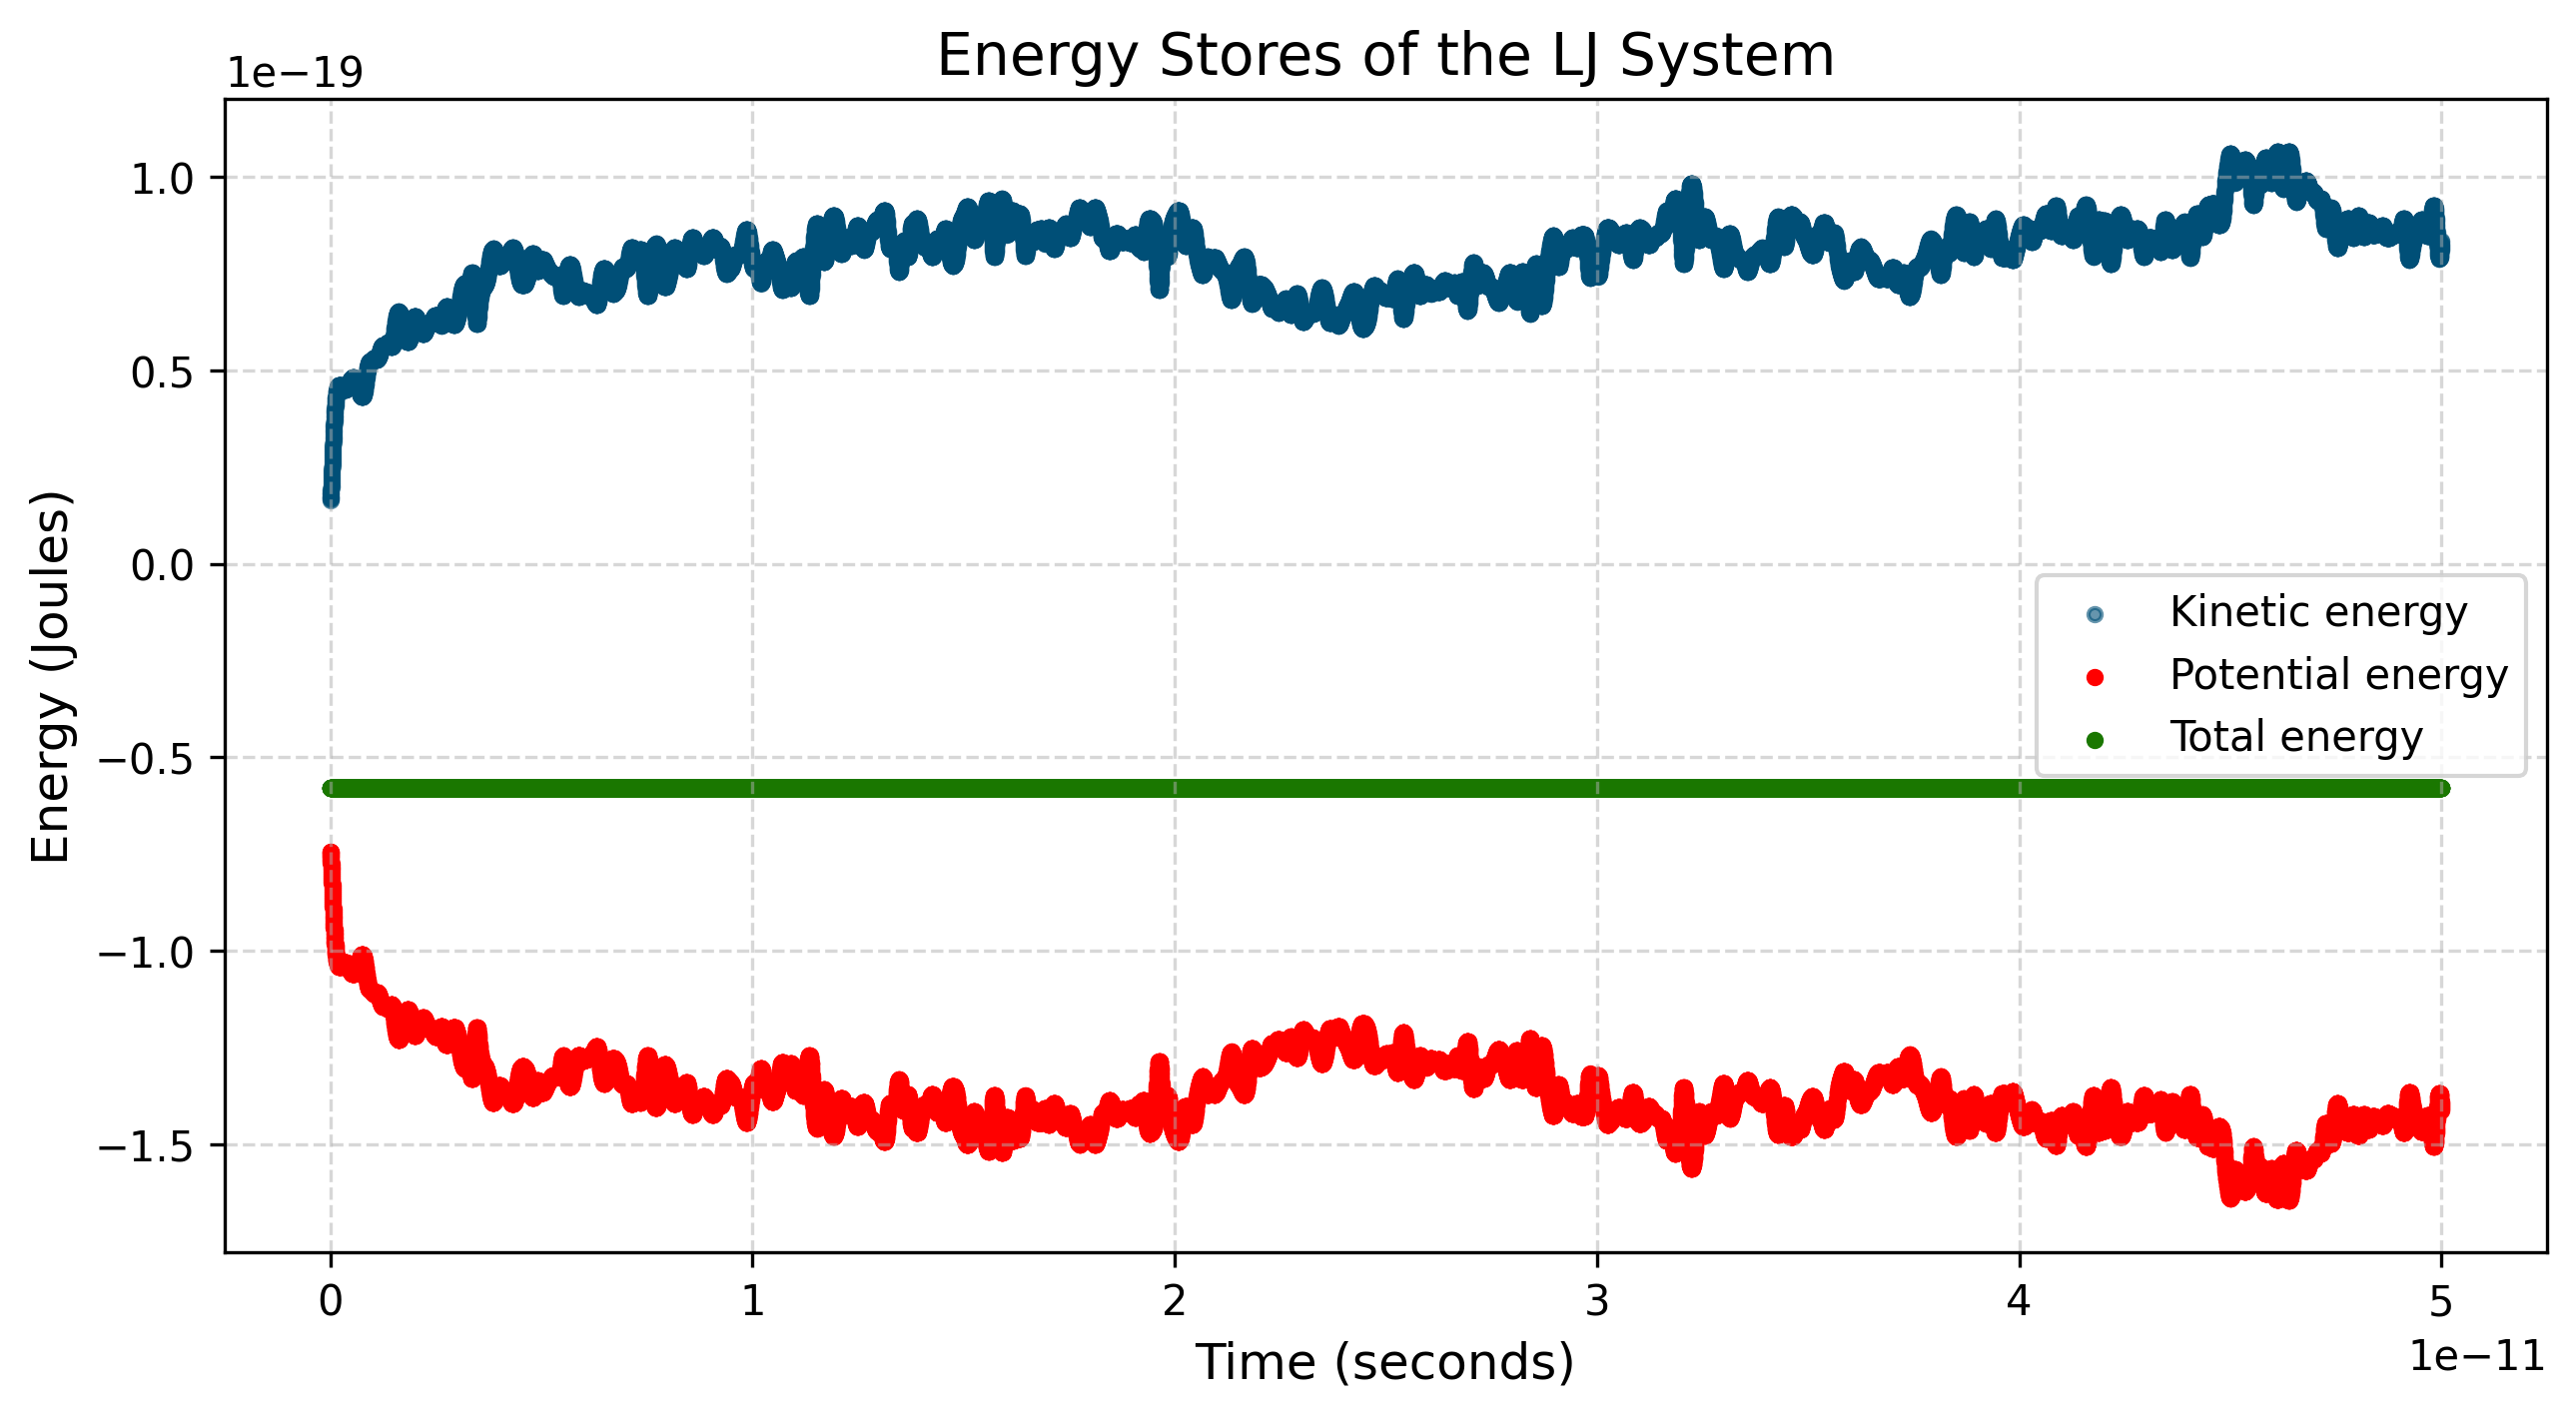
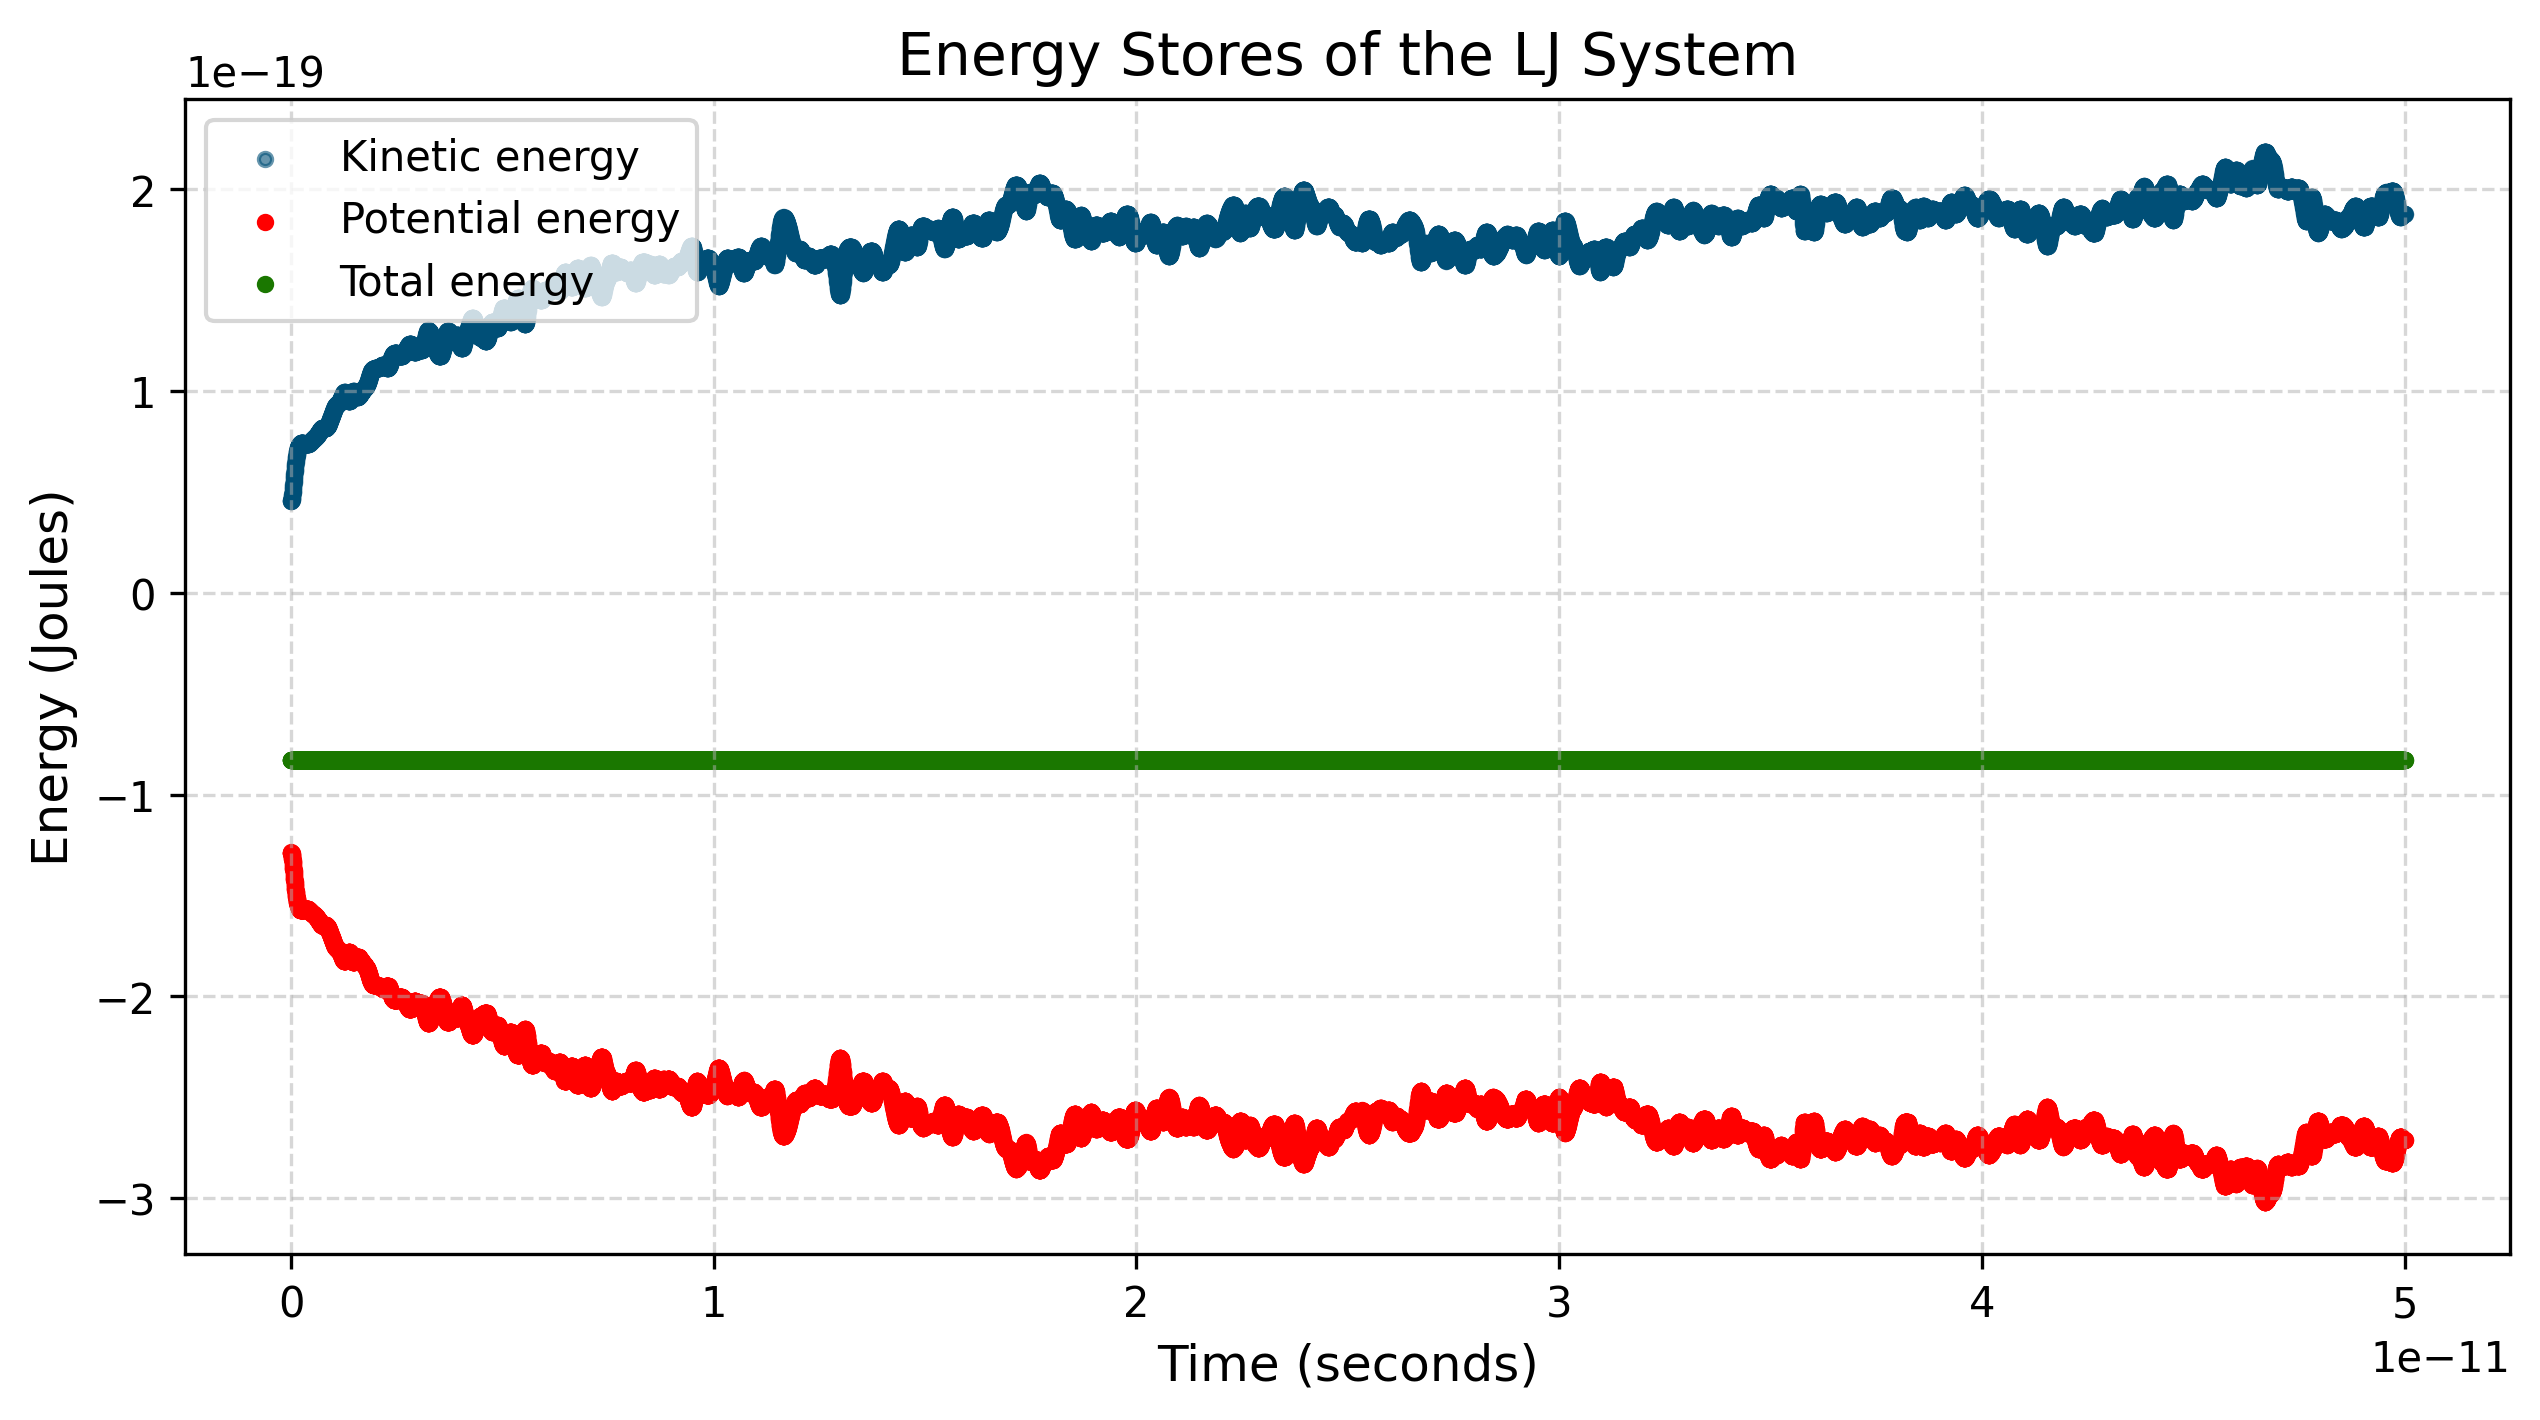
Expansion: Extended from 80->200 particles and from 5nm -> 10nm dimentions of box

diff --git a/LJ_plot.py b/LJ_plot.py
@@ -8,8 +8,8 @@ import matplotlib.animation as animation
 df = pd.read_csv("LJ_data.csv")
 
 # Defining the exact enviroment dimensions
-BOX_WIDTH = 5.0e-9  
-BOX_HEIGHT = 5.0e-9
+BOX_WIDTH = 10.0e-9  
+BOX_HEIGHT = 10.0e-9
 
 # 2. Setup figure canvas
 fig, ax = plt.subplots(figsize=(8, 8))